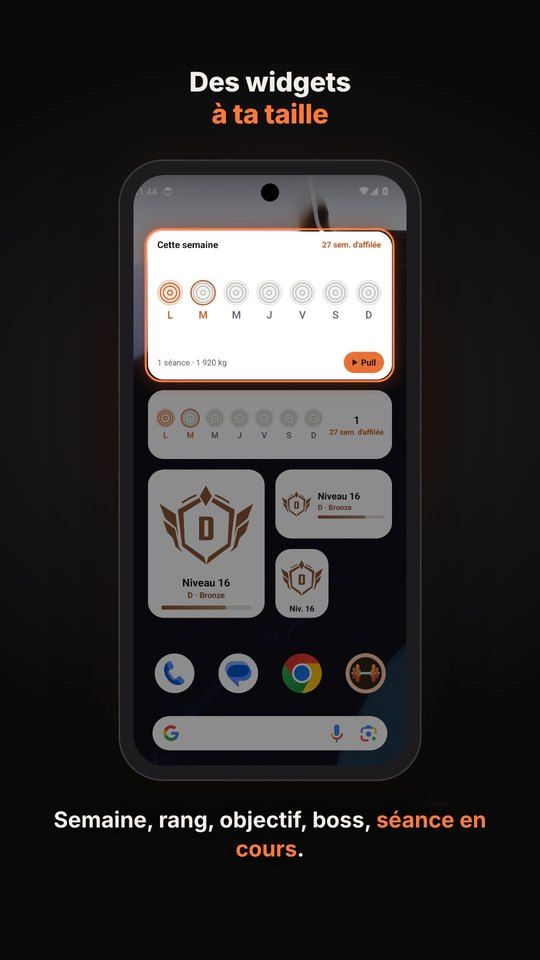
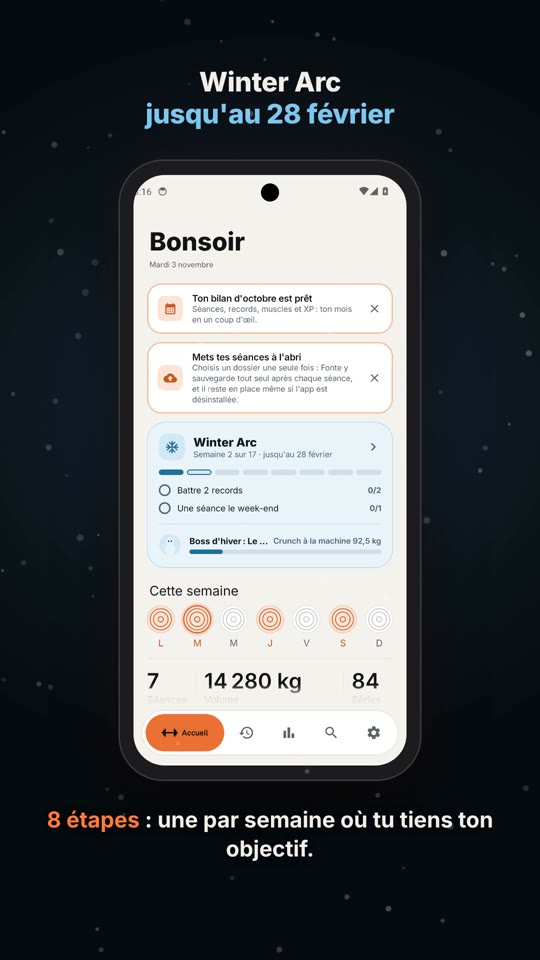
README : nouveautés 1.0.24 (vidéo, affiche)
Claude-Session: https://claude.ai/code/session_01TijYE1263x5jkjj72KNBQx

Changed region(s): [[0.237, 0.0625, 0.7704, 0.8125], [0.0889, 0.8438, 0.9185, 0.9062]]

diff --git a/README.md b/README.md
@@ -21,9 +21,9 @@ Ce dépôt sert uniquement à télécharger l'application : chaque version de Fo
 
 ### En vidéo
 
-<a href="https://fram-sudo.github.io/fonte-releases/videos/nouveautes-fr.mp4"><img src="videos/nouveautes-fr.jpg" width="200" alt="Nouveautés 1.0.23"></a> <a href="https://fram-sudo.github.io/fonte-releases/videos/iphone-fr.mp4"><img src="videos/iphone-fr.jpg" width="200" alt="Installer sur iPhone"></a> <a href="https://fram-sudo.github.io/fonte-releases/videos/presentation-fr.mp4"><img src="videos/presentation-fr.jpg" width="200" alt="Présentation complète"></a>
+<a href="https://fram-sudo.github.io/fonte-releases/videos/nouveautes-fr.mp4"><img src="videos/nouveautes-fr.jpg" width="200" alt="Nouveautés 1.0.24"></a> <a href="https://fram-sudo.github.io/fonte-releases/videos/iphone-fr.mp4"><img src="videos/iphone-fr.jpg" width="200" alt="Installer sur iPhone"></a> <a href="https://fram-sudo.github.io/fonte-releases/videos/presentation-fr.mp4"><img src="videos/presentation-fr.jpg" width="200" alt="Présentation complète"></a>
 
-**Nouveautés 1.0.23** (32 s) · **Installer sur iPhone** (1 min 12) · **Présentation complète** (1 min 30)
+**Nouveautés 1.0.24** (32 s) · **Installer sur iPhone** (1 min 12) · **Présentation complète** (1 min 30)
 
 Touche une image pour lancer la vidéo (elles sont aussi sur [le site](https://fram-sudo.github.io/fonte-releases/)).
 
@@ -103,9 +103,9 @@ This repository is only for downloading the app: every Fonte version is publishe
 
 ### Watch
 
-<a href="https://fram-sudo.github.io/fonte-releases/videos/whats-new-en.mp4"><img src="videos/whats-new-en.jpg" width="200" alt="What's new in 1.0.23"></a> <a href="https://fram-sudo.github.io/fonte-releases/videos/iphone-en.mp4"><img src="videos/iphone-en.jpg" width="200" alt="Install on iPhone"></a> <a href="https://fram-sudo.github.io/fonte-releases/videos/presentation-en.mp4"><img src="videos/presentation-en.jpg" width="200" alt="Full walkthrough"></a>
+<a href="https://fram-sudo.github.io/fonte-releases/videos/whats-new-en.mp4"><img src="videos/whats-new-en.jpg" width="200" alt="What's new in 1.0.24"></a> <a href="https://fram-sudo.github.io/fonte-releases/videos/iphone-en.mp4"><img src="videos/iphone-en.jpg" width="200" alt="Install on iPhone"></a> <a href="https://fram-sudo.github.io/fonte-releases/videos/presentation-en.mp4"><img src="videos/presentation-en.jpg" width="200" alt="Full walkthrough"></a>
 
-**What's new in 1.0.23** (32 s) · **Install on iPhone** (1 min 12) · **Full walkthrough** (1 min 30)
+**What's new in 1.0.24** (32 s) · **Install on iPhone** (1 min 12) · **Full walkthrough** (1 min 30)
 
 Tap an image to play the video (also on [the website](https://fram-sudo.github.io/fonte-releases/en/)).
 
